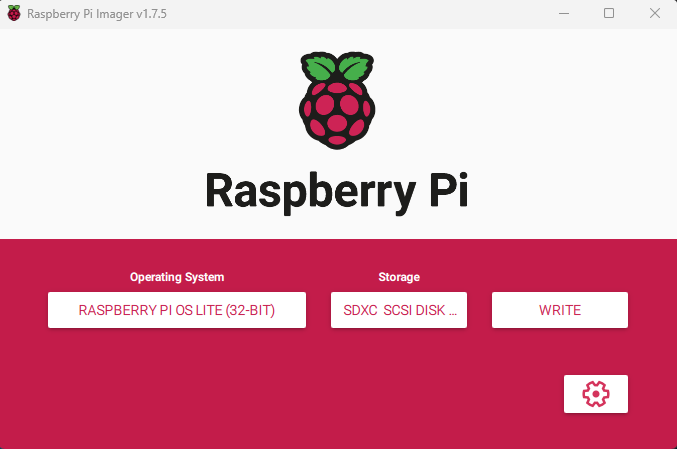
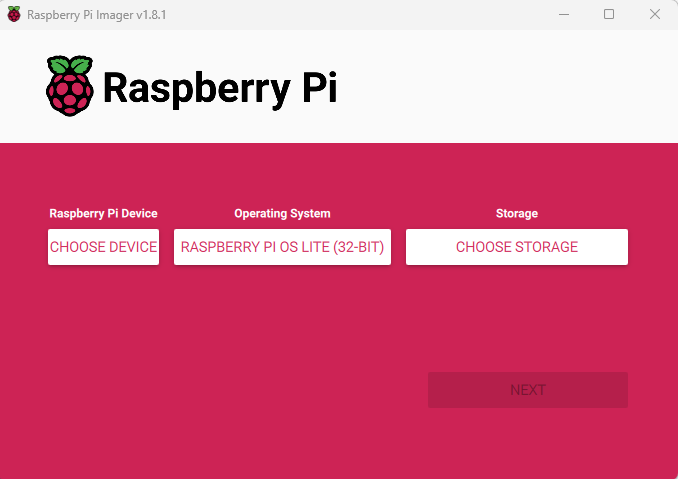
Support Bullseye and Bookworm and Doc Update

diff --git a/README.md b/README.md
@@ -4,50 +4,56 @@ A [Raspberry Pi Zero W](https://rpilocator.com/) is used as a USB Stick with int
 
 ![Overview pic](doc/img/overview.png)
 
-
 This can be used in conjunction with a camera system which has the possibility to store the video files locally on a USB stick, but not in the cloud.
 
 Each new video file is automatically uploaded to a free Dropbox account and can subsequently be viewed and replayed with the Dropbox app.
 
-Some very basic linux skills are necessary.
+Some very basic linux skills are necessary. Should also work with "Raspberry Pi Zero 2 W". 
 
 ## Quickstart
-Prepared for Debian Bookworm based Raspberry image. The Micro-SD card should be at least 16GB. 
-1. Install Raspberry Pi OS Lite (32bit) with the [Raspberry Pi Imager](https://www.raspberrypi.com/software/). 
+The Micro-SD card should be at least 16GB. 
+
+1. Install Raspberry Pi **OS Lite** (32bit) from category Raspberry Pi OS (other) with the [Raspberry Pi Imager](https://www.raspberrypi.com/software/). Take note whether it is a Debian Bullseye or Debian Bookworm image.
 ![pi imager](doc/img/piimager.png)
 
-- Settings (Gear Symbol)
+- Settings (After NEXT)
     > - Set Hostname: raspberrypi.local
     > - Enable SSH with Password
     > - Username: pi
     > - Password: YOUR_PASSWORD
     > - Setup your Wifi (important)
 
-2. Download latest release from RaspiAsUSBStickWithCloudSync and extract files
-3. Enter configuration data for Dropbox sync or linux server sync
+2. Be patient on first setup boot, it might take several minutes on Pi Zero.
+
+3. Download latest release from RaspiAsUSBStickWithCloudSync and extract files
+
+4. Enter configuration data for Dropbox sync or linux server sync
     - [Prepare and configure Dropbox](doc/dropbox.md)
     - Configure linux server sync
-4. Copy all files to `/home/pi` on the Raspberry Pi. For example use [WinSCP](https://winscp.net/eng/download.php):
+
+5. Copy all files to `/home/pi` on the Raspberry Pi. For example use [WinSCP](https://winscp.net/eng/download.php):
     > - File protocol: SFTP
     > - Host name: raspberrypi.local
     > - User name: pi
     > - Password: YOUR_PASSWORD
-5. Login to Raspberry Pi with SSH and execute command `bash /home/pi/execute_setup.sh`.
-For example use [Putty](https://www.chiark.greenend.org.uk/~sgtatham/putty/latest.html) with `Host name: raspberrypi.local` and `user: pi`
-> [!NOTE]
-> The setup script downloads and installs necessary software components, configures driver modules as well as services and creates the USB drive image.
-6. Restart and you are all set. For a first test connect the pi with it's USB port to your PC and see whether the USB drive is accessible. Create a folder with some files and check whether it is auto uploaded to configured Dropbox or linux server.
-7. Connect to system of your choice, for example camera system with video sync to USB.
+
+6. Login to Raspberry Pi with SSH. For example use [Putty](https://www.chiark.greenend.org.uk/~sgtatham/putty/latest.html) with `Host name: raspberrypi.local` and `user: pi`
+    - For Debian Bullseye image type and execute command: `bash /home/pi/execute_setup_bullseye.sh`
+    - For Debian Brookworm image type execute command: `bash /home/pi/execute_setup_bookworm.sh`
+
+    > [!NOTE]
+    > The setup script downloads and installs necessary software components, configures driver modules as well as services and creates the USB drive image.
+
+7. Restart and you are all set. For a first test connect the pi with it's USB port to your PC and see whether the USB drive is accessible. Create a folder with some files and check whether it is auto uploaded to configured Dropbox or linux server.
+
+8. Connect to system of your choice, for example camera system with video sync to USB.
 
 #### View videos in dropbox mobile app: 
 
 ![dropbox app](doc/img/dropboxapp.png)
 
-
 ## Diagnose
-- Wifi
-- Log Files
-- Mount test
+[Diagnose issues](doc/diagnose.md)
 
 ## More information
 [Detailed documentation](doc/documentation.md)

diff --git a/doc/dropbox.md b/doc/dropbox.md
@@ -6,7 +6,7 @@ After creating a dropbox **Basic** account, a new app needs to be created in the
 
 ![Create app](img/createapp.png)
 
-> [!NOTE]
+> [!IMPORTANT]
 > For accessing the dropbox account from RaspiAsUSBStickWithCloudSync three configuration settings are necessary:
 > - APP_KEY
 > - APP_SECRET
@@ -21,39 +21,15 @@ After creating a dropbox **Basic** account, a new app needs to be created in the
 
 ## 2. Get the REFRESH_TOKEN
 
-###  Get the access code
+Use DropboxHelper application, or execute the [steps manually](dbmanual.md).
 
-- Use a browser and log in to your dropbox account.
-- Replace APP_KEY in the URL with the app_key from you apps setting page.
-```
-https://www.dropbox.com/oauth2/authorize?client_id=APP_KEY&response_type=code&token_access_type=offline
-```
-- Copy the URL to the browser and execute. Press -> Continue -> Allow.
-- Copy the generated access code for later usage.
-![Access code](img/accesscode.png)
+Enter APP_KEY and APP_SECRET from you apps setting page.
 
-### Call the token API
-
-- Replace ACCESS_CODE, APP_KEY and APP_SECRET with your copied values in the command:
-```
-curl https://api.dropbox.com/oauth2/token -d code=ACCESS_CODE -d grant_type=authorization_code -d client_id=APP_KEY -d client_secret=APP_SECRET
-```
-
-- Execute you modified command in a Command Prompt:
-
-![Command prompt](img/commandprompt.png)
-
-- Finally copy the refresh token from the returned result.
->  ...
->  "token_type": "bearer",
->  "expires_in": 14400,
->  "refresh_token": "**aaaaaaaaaaaaaaaaaaaaaaaaaaaaaaaaaaaaaaaaaaaaaaaaa-1_bbbbbbbbb-y**",
->  "scope": "account_info.read files.content.read files.content.write files.metadata.read files.metadata.write",
->  ...
+![Dropbox Helper](img/dropboxHelper.png)
 
 
 ## 3. Enter settings in configuration file
 
-Edit the file `config.json` with a text editor and replace the values for "DropboxAppKey", "DropboxAppSecret" and "DropBoxRefreshToken" with your noted values.
+Edit the file `config.json` with a text editor and replace the values for `DropboxAppKey`, `DropboxAppSecret` and `DropBoxRefreshToken` with your noted values.
 
 Now everything is set up.

diff --git a/doc/diagnose.md b/doc/diagnose.md
@@ -1,0 +1,43 @@
+# Diagnose
+
+### Cannot connect to Raspberry Pi Zero W
+- Did you wait several minutes on initial setup boot before trying to connect?
+- Did you set hostname to raspberrypi.local in Raspberry Pi Imager settings?
+- Did you enable SSH with password in Raspberry Pi Imager settings?
+- Did you enter correct WiFi id and password in Raspberry Pi Imager settings?
+
+If any of the settings is incorrect, correct settings and write image again.
+
+### Automatic dropbox upload not working
+- Did you enter all settings correctly in config.json?
+- Check **log files**:
+    - `cat /home/pi/logs/uploadLogging.log`
+    - `cat /home/pi/logs/copyLogging.log`
+- Check for errors on boot:
+    - `sudo dmesg`
+
+### Manually execute python scripts to investigate
+
+Stop copy and upload system services:
+- `sudo systemctl status usb-copy.service`
+- `sudo systemctl stop usb-copy.service`
+- `sudo systemctl status usb-copy.service`
+- `sudo systemctl status usb-upload.service`
+- `sudo systemctl stop usb-upload.service`
+- `sudo systemctl status usb-upload.service`
+
+Execute scripts manually:
+- `python3 /home/pi/copy_new_usb_files.py`
+- `python3 /home/pi/upload_new_files.py`
+
+### Useful commands for testing
+
+Activate / Deactivate USB mass storage mode:
+- `sudo modprobe -r g_mass_storage`
+- `sudo modprobe g_mass_storage file=/piusb.bin stall=0 removable=y ro=0 iSerialNumber=1122334455`
+
+Check for rogue process:
+- `sudo top`
+
+
+

diff --git a/doc/dbmanual.md b/doc/dbmanual.md
@@ -1,0 +1,31 @@
+# Dropbox refresh token
+
+###  Get the access code
+
+- Use a browser and log in to your dropbox account.
+- Replace APP_KEY in the URL with the app_key from you apps setting page.
+```
+https://www.dropbox.com/oauth2/authorize?client_id=APP_KEY&response_type=code&token_access_type=offline
+```
+- Copy the URL to the browser and execute. Press -> Continue -> Allow.
+- Copy the generated access code for later usage.
+![Access code](img/accesscode.png)
+
+### Call the token API
+
+- Replace ACCESS_CODE, APP_KEY and APP_SECRET with your noted values in the command:
+```
+curl https://api.dropbox.com/oauth2/token -d code=ACCESS_CODE -d grant_type=authorization_code -d client_id=APP_KEY -d client_secret=APP_SECRET
+```
+
+- Execute you modified command in a Command Prompt:
+
+![Command prompt](img/commandprompt.png)
+
+- Finally copy the refresh token from the returned result.
+>  ...
+>  "token_type": "bearer",
+>  "expires_in": 14400,
+>  "refresh_token": "**aaaaaaaaaaaaaaaaaaaaaaaaaaaaaaaaaaaaaaaaaaaaaaaaa-1_bbbbbbbbb-y**",
+>  "scope": "account_info.read files.content.read files.content.write files.metadata.read files.metadata.write",
+>  ...
